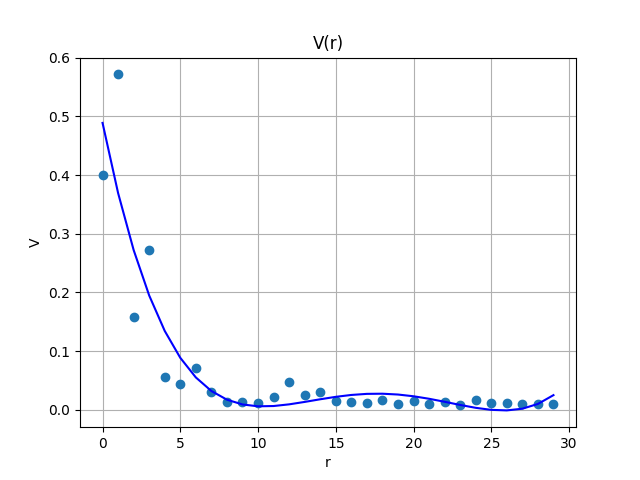
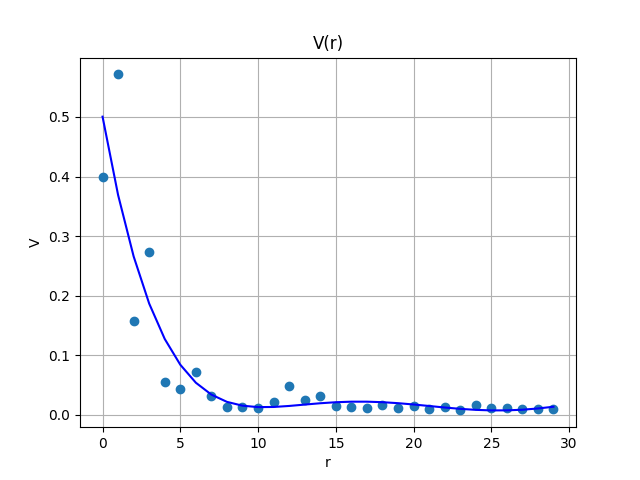
feat(cool aprox) cool aproximation added

diff --git a/module2/main.py b/module2/main.py
@@ -34,7 +34,7 @@ while i < len(mins)-1:
 # approximation
 y = vis_list
 x = range(0, len(y))
-t = np.polyfit(x, y, 4)
+t = np.polyfit(x, y, 5)
 f = np.poly1d(t)
 
 # saving results
